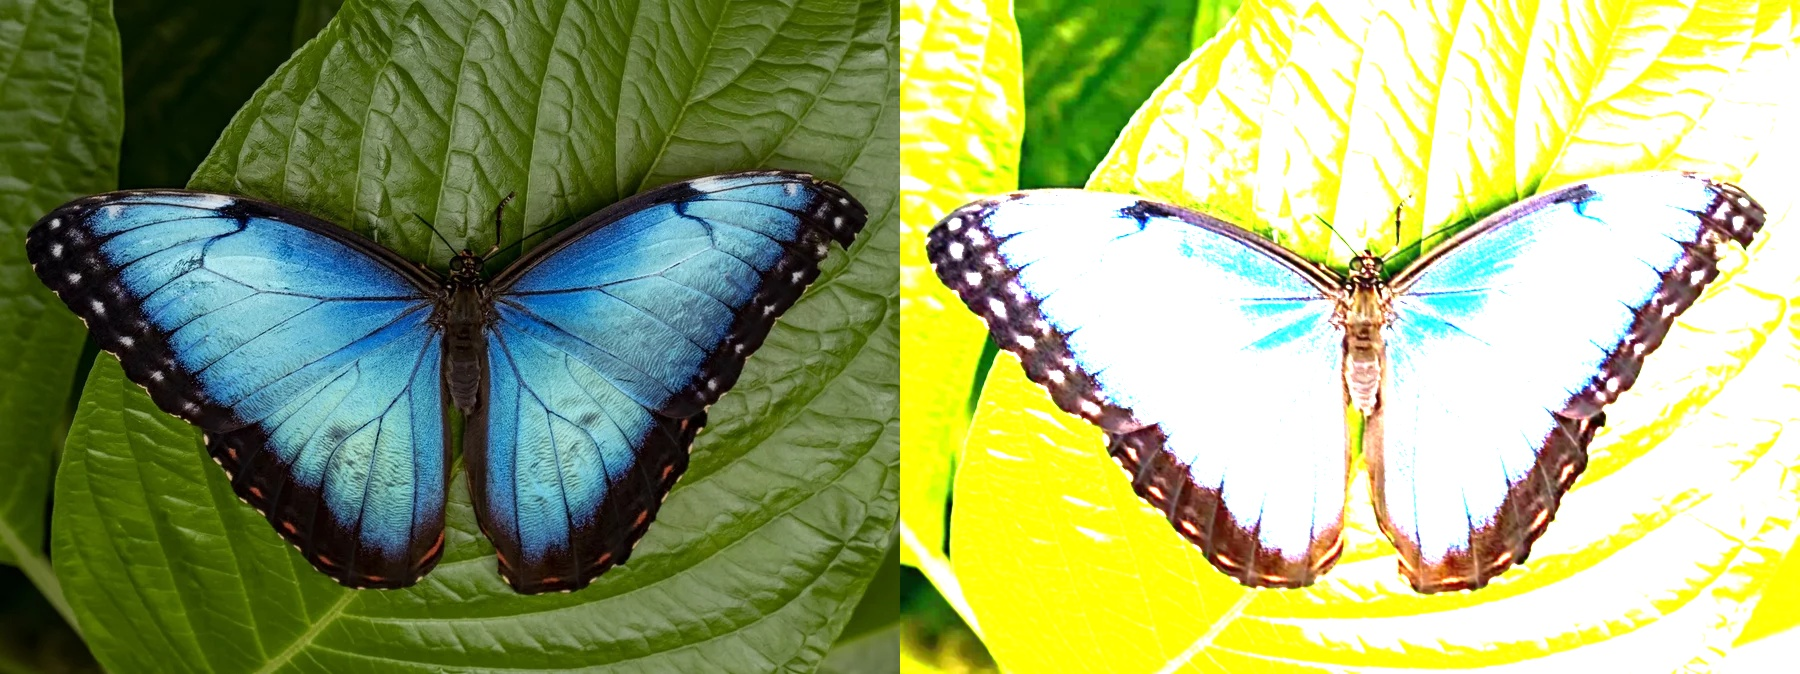
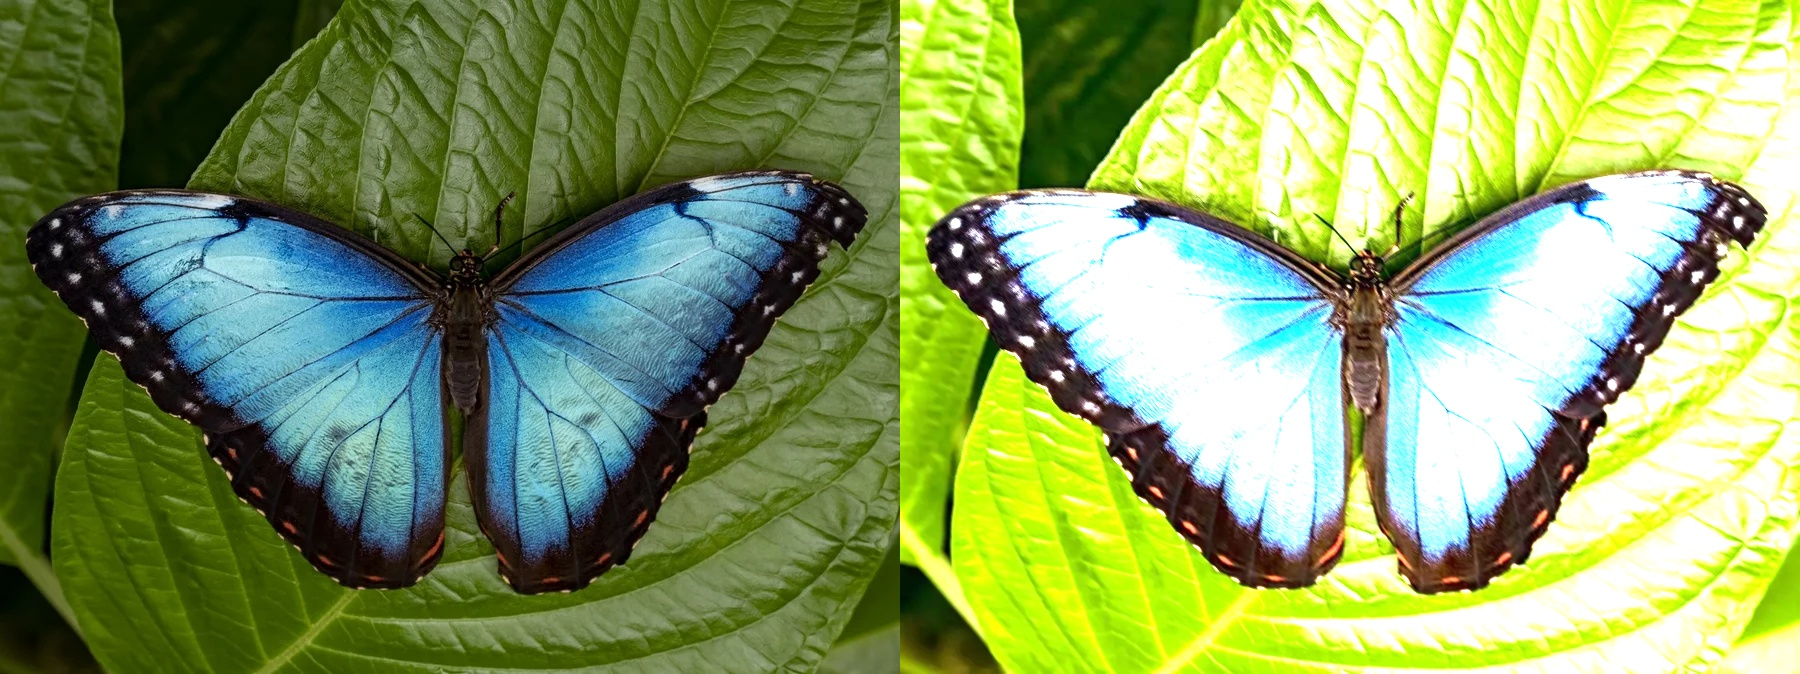
3rd commit

diff --git a/PyLearn7-Assignment32/convolution 2D/convolution_2D.py b/PyLearn7-Assignment32/convolution 2D/convolution_2D.py
@@ -25,21 +25,16 @@ kernel4 = np.array([[0  ,  0 ,  0],
                    [0  ,  0 ,  0]])
 
 # 5. My filter
-kernel5 = np.array([[1  ,  1 ,  1],
-                   [0  ,  1 ,  1],
-                   [0  ,  0 ,  1]])
-
-# 6. My filter
-kernel6 = np.array([[1  ,  0 ,  0],
+kernel5 = np.array([[1  ,  0 ,  0],
                    [0  ,  1 ,  0],
                    [0  ,  0 ,  1]])
 
-# 7. My filter
-kernel7 = np.array([[0  ,  1 ,  0],
+# 6. My filter
+kernel6 = np.array([[0  ,  1 ,  0],
                    [-1  ,  0 ,  1],
                    [0  ,  -1 ,  0]])
 
-kernels = [kernel1, kernel2, kernel3, kernel4, kernel5, kernel6, kernel7]
+kernels = [kernel1, kernel2, kernel3, kernel4, kernel5, kernel6]
 
 i = 1
 for kernel in kernels:

diff --git a/PyLearn7-Assignment32/convolution 2D/readme.md b/PyLearn7-Assignment32/convolution 2D/readme.md
@@ -1,0 +1,43 @@
+
+# 2D Convolution 🦋
+Some 2D filters with different kernels are applied on an image.
+
+## How to Install
+Run following command:
+```
+pip install -r requirements.txt
+```
+
+## How to Run
+Execute this command in terminal:
+```
+python convolution_2D.py
+```
+
+## Results
+Left images are **input** and right ones are **output** images after applying filter.
+### 1.
+<img src="output\result_1.jpg" width="900" height="337">
+
+### 2.
+<img src="output\result_2.jpg" width="900" height="337">
+
+### 3.
+<img src="output\result_3.jpg" width="900" height="337">
+
+### 4.
+<img src="output\result_4.jpg" width="900" height="337">
+
+### 5.
+<img src="output\result_5.jpg" width="900" height="337">
+
+### 6.
+<img src="output\result_6.jpg" width="900" height="337">
+
+
+
+
+## Python
+This program is written using [Python](https://www.python.org/) language and [OpenCV](https://opencv.org/), whick is a library of programming functions for real-time computer vision, image processing, and machine learning.
+
+<img src="input\opencv.webp" width="262.5" height="124.75">
